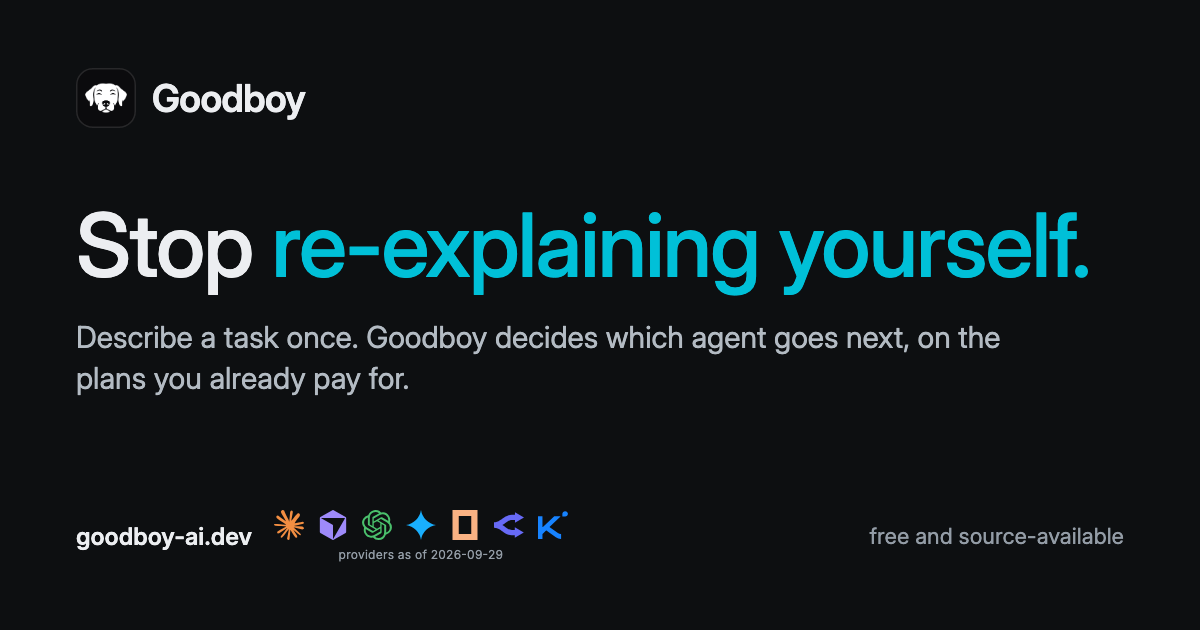
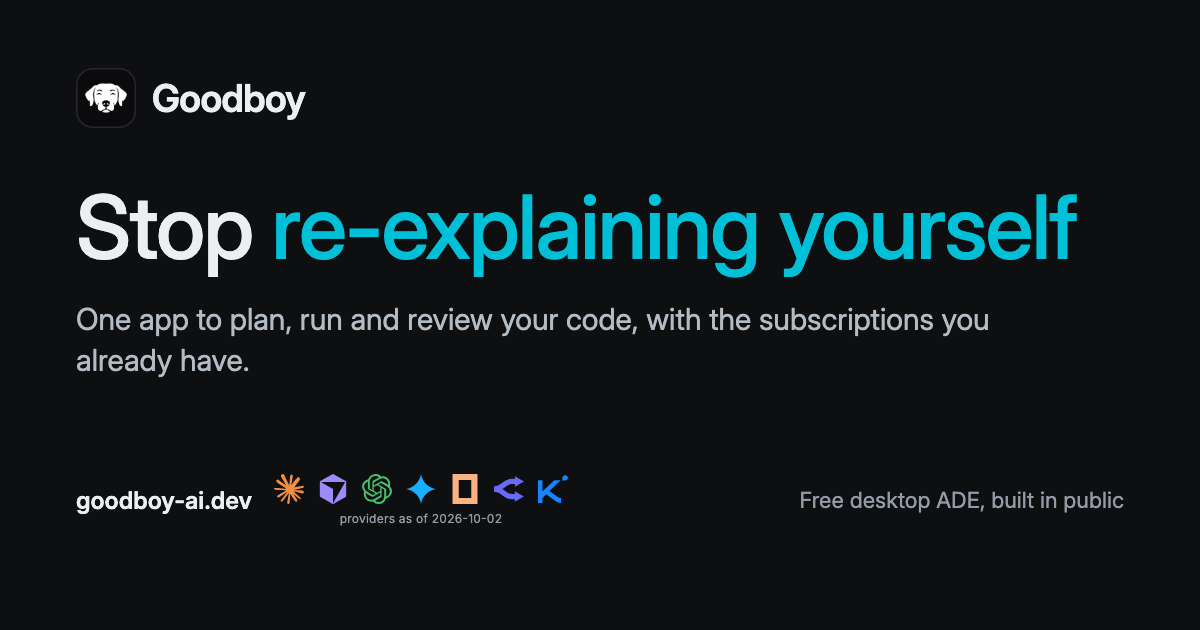
fix(repo): refresh the dark link card and bust the x cache

diff --git a/website/index.html b/website/index.html
@@ -163,7 +163,7 @@
       property="og:description"
       content="Goodboy is a free agentic development environment for macOS and Linux. The providers you connect do the work and Goodboy gives it structure: each task keeps its goal, decisions and summary, so the next agent starts briefed."
     />
-    <meta property="og:image" content="https://goodboy-ai.dev/og-image.png?v=2" />
+    <meta property="og:image" content="https://goodboy-ai.dev/og-image.png?v=3" />
     <meta property="og:image:width" content="1200" />
     <meta property="og:image:height" content="630" />
     <meta property="og:image:alt" content="Goodboy: stop re-explaining yourself to coding agents" />
@@ -181,7 +181,7 @@
       name="twitter:description"
       content="Goodboy is a free agentic development environment for macOS and Linux. The providers you connect do the work and Goodboy gives it structure: each task keeps its goal, decisions and summary, so the next agent starts briefed."
     />
-    <meta name="twitter:image" content="https://goodboy-ai.dev/og-image.png?v=2" />
+    <meta name="twitter:image" content="https://goodboy-ai.dev/og-image.png?v=3" />
     <meta
       name="twitter:image:alt"
       content="Goodboy: stop re-explaining yourself to coding agents"

diff --git a/website/features.html b/website/features.html
@@ -151,7 +151,7 @@
       property="og:description"
       content="Every feature in Goodboy, the agentic development environment, grouped the way a task lives, from setup to storage."
     />
-    <meta property="og:image" content="https://goodboy-ai.dev/og-image.png?v=2" />
+    <meta property="og:image" content="https://goodboy-ai.dev/og-image.png?v=3" />
     <meta property="og:image:width" content="1200" />
     <meta property="og:image:height" content="630" />
     <meta property="og:image:alt" content="Goodboy features" />
@@ -166,7 +166,7 @@
       name="twitter:description"
       content="Every feature in Goodboy, the agentic development environment, grouped the way a task lives, from setup to storage."
     />
-    <meta name="twitter:image" content="https://goodboy-ai.dev/og-image.png?v=2" />
+    <meta name="twitter:image" content="https://goodboy-ai.dev/og-image.png?v=3" />
     <meta name="twitter:image:alt" content="Goodboy features" />
 
     <!-- Theme / PWA hints -->

diff --git a/docs/brand.md b/docs/brand.md
@@ -143,11 +143,12 @@ suggests. Every one of these is generated, never cropped by hand.
 | X header                    | 1500x500                 | Bottom left, where the avatar overlaps, and the top and bottom edges, cut on mobile |
 | LinkedIn company cover      | 1128x191, rendered at 2x | Bottom left, under the company logo                                                 |
 | LinkedIn profile background | 1584x396                 | The left third, under the profile photo                                             |
-| og-image                    | 1200x630                 | Nothing, but crawlers only take the PNG, so the PNG is the only source              |
+| og-image                    | 1200x630                 | The bottom 100 px, where X lays the page title over the card                        |
 
 The og-image is the one card drawn on the website's dark theme tokens, so a link
 preview reads as dark on X, LinkedIn and Slack. Its URL in the page heads carries
-a `?v=` suffix. Bump it whenever the PNG changes, because scrapers cache by URL.
+a `?v=` suffix. Bump it whenever the PNG changes, because scrapers cache by URL:
+X kept showing the old light card under an unchanged suffix.
 
 A banner shows up much smaller than it is made. 1500 px wide becomes about 600
 on desktop and 440 on mobile. Anything under about 40 px in the source can't be
